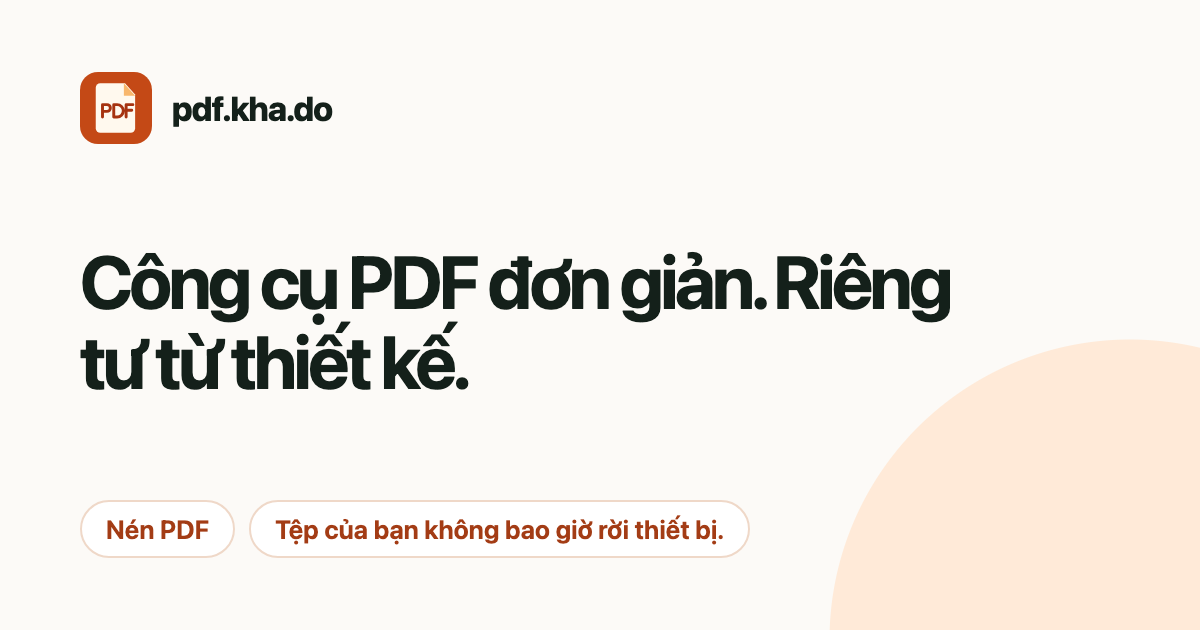
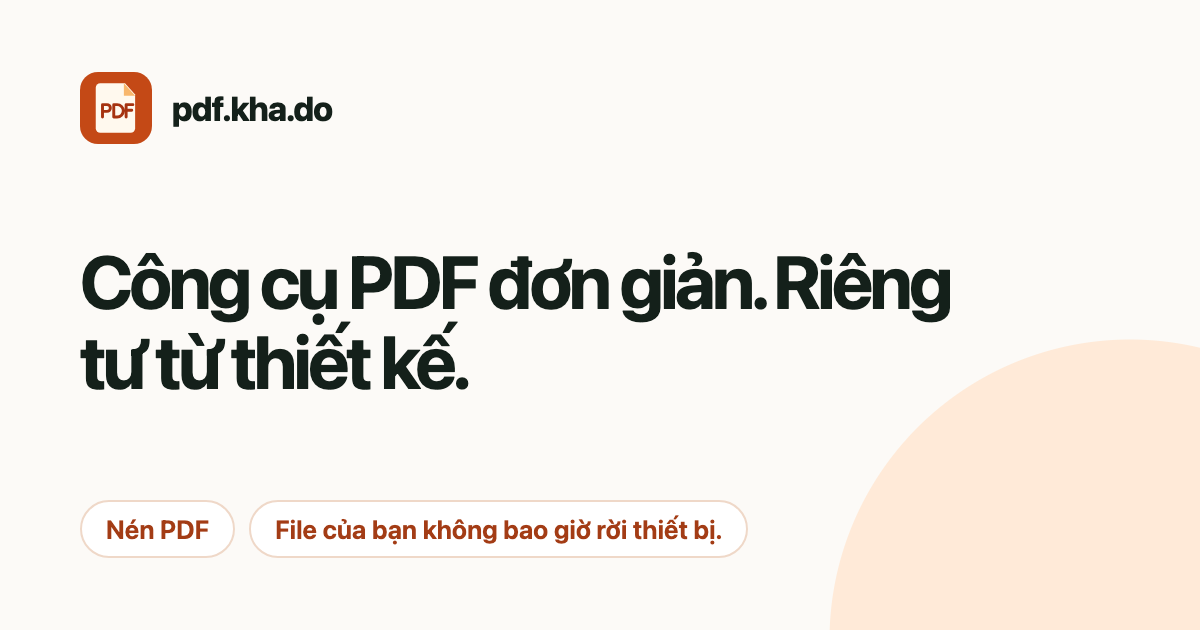
Vietnamese: use "file" instead of "tệp"

Changed region(s): [[0.2158, 0.8143, 0.6475, 0.8746]]

diff --git a/src/i18n/vi.ts b/src/i18n/vi.ts
@@ -5,7 +5,7 @@ export default {
   lightTheme: "Giao diện sáng",
   darkTheme: "Giao diện tối",
   support:
-    "Không tải tệp lên. Không tài khoản. Không thu phí. Không quảng cáo.",
+    "Không tải file lên. Không tài khoản. Không thu phí. Không quảng cáo.",
   philosophy: "PDF của bạn. Thiết bị của bạn. Quyền của bạn.",
   tagline: "Công cụ PDF tôn trọng bạn.",
   siteLoads:
@@ -19,11 +19,11 @@ export default {
   sub: "Công cụ PDF miễn phí, mã nguồn mở, chạy hoàn toàn trong trình duyệt.",
   drop: "Thả PDF vào đây hoặc bấm để chọn",
   hint: "Mỗi lần một PDF. Không cần tải lên.",
-  browse: "Chọn tệp",
-  privacy: "Tệp của bạn không bao giờ rời thiết bị.",
+  browse: "Chọn file",
+  privacy: "File của bạn không bao giờ rời thiết bị.",
   compress: "Nén PDF",
   quality: "Chất lượng cao",
-  smallest: "Tệp nhỏ nhất",
+  smallest: "File nhỏ nhất",
   target: "Dung lượng mong muốn (tùy chọn)",
   off: "Tắt",
   image: "Chất lượng ảnh",
@@ -31,7 +31,7 @@ export default {
   high: "Cao",
   medium: "Trung bình",
   low: "Thấp",
-  remove: "Xóa tệp",
+  remove: "Xóa file",
   reading: "Đang đọc PDF",
   analyzing: "Đang kiểm tra các trang",
   loading: "Đang tải bộ xử lý PDF",
@@ -44,36 +44,36 @@ export default {
   saved: "đã giảm",
   download: "Tải PDF",
   another: "Nén PDF khác",
-  noReduction: "Không thể giảm dung lượng đáng kể. Hãy giữ tệp gốc.",
+  noReduction: "Không thể giảm dung lượng đáng kể. Hãy giữ file gốc.",
   targetMet: "Đã đạt dung lượng mong muốn",
   targetMiss:
     "Chưa đạt dung lượng mong muốn; có thể không giảm được đến mức đó.",
-  invalid: "Hãy chọn một tệp PDF hợp lệ.",
+  invalid: "Hãy chọn một file PDF hợp lệ.",
   large:
     "PDF lớn có thể vượt bộ nhớ của trình duyệt. Bạn vẫn có thể thử và hủy bất cứ lúc nào.",
-  corrupt: "Không đọc được PDF hoặc tệp đã hỏng.",
+  corrupt: "Không đọc được PDF hoặc file đã hỏng.",
   password: "PDF này được bảo vệ bằng mật khẩu. Nhập mật khẩu để tiếp tục.",
-  failed: "Nén thất bại. Tệp gốc của bạn vẫn an toàn.",
+  failed: "Nén thất bại. File gốc của bạn vẫn an toàn.",
   how: "Cách hoạt động",
   howText:
     "Trình duyệt đọc PDF và nén lại những ảnh phù hợp. Văn bản và đồ họa vector được giữ lại khi bộ xử lý PDF hỗ trợ.",
   why: "Vì sao dùng công cụ này?",
   whyText:
-    "Không tải tệp lên, không tài khoản, quảng cáo hay theo dõi. Mọi xử lý diễn ra trên thiết bị của bạn.",
+    "Không tải file lên, không tài khoản, quảng cáo hay theo dõi. Mọi xử lý diễn ra trên thiết bị của bạn.",
   faq: "Câu hỏi thường gặp",
   q1: "Nén có làm giảm chất lượng không?",
   a1: "Chi tiết ảnh có thể thay đổi. Chất lượng cao ưu tiên độ rõ; văn bản và đồ họa vector thường vẫn sắc nét.",
-  q2: "Tệp có được tải lên không?",
-  a2: "Không. Tệp ở lại trong tab trình duyệt và không được gửi tới máy chủ.",
+  q2: "File có được tải lên không?",
+  a2: "Không. File ở lại trong tab trình duyệt và không được gửi tới máy chủ.",
   q3: "Có thể chọn dung lượng mong muốn không?",
   a3: "Có. Chúng tôi thử nhiều thiết lập và chọn kết quả tốt nhất dưới mức bạn đặt khi có thể.",
   q4: "Vì sao PDF không nhỏ hơn?",
-  a4: "PDF đã tối ưu có thể gần như không còn phần dư. Nếu xử lý làm tệp lớn hơn, chúng tôi giữ tệp gốc.",
+  a4: "PDF đã tối ưu có thể gần như không còn phần dư. Nếu xử lý làm file lớn hơn, chúng tôi giữ file gốc.",
   privacyTitle: "Quyền riêng tư",
   privacyBody:
-    "Toàn bộ xử lý chạy trong Web Worker trên thiết bị. Trang này không dùng phân tích truy cập, tài khoản, cookie hay lưu PDF. Trình duyệt tải tài nguyên ứng dụng, nhưng dữ liệu PDF, tên tệp và siêu dữ liệu không được gửi cho chúng tôi.",
+    "Toàn bộ xử lý chạy trong Web Worker trên thiết bị. Trang này không dùng phân tích truy cập, tài khoản, cookie hay lưu PDF. Trình duyệt tải tài nguyên ứng dụng, nhưng dữ liệu PDF, tên file và siêu dữ liệu không được gửi cho chúng tôi.",
   unsupported:
-    "Tài liệu có tính năng không thể giữ an toàn khi nén. Hãy giữ tệp gốc.",
+    "Tài liệu có tính năng không thể giữ an toàn khi nén. Hãy giữ file gốc.",
   limitations:
     "Chữ ký số và biểu mẫu tương tác có thể không còn nguyên sau khi viết lại PDF. Hãy kiểm tra kết quả trước khi chia sẻ.",
   license: "Giấy phép",
@@ -82,7 +82,7 @@ export default {
   open: "Mã nguồn mở trên GitHub",
   targetInvalid: "Nhập dung lượng mong muốn lớn hơn 0.",
   lossyNotice: "Ảnh đã được nén lại. Hãy kiểm tra kết quả trước khi chia sẻ.",
-  replace: "Đổi tệp",
+  replace: "Đổi file",
   oneFile: "Mỗi lần chỉ chọn một PDF.",
   stepFile: "Chọn PDF",
   stepLevel: "Chọn mức nén",

diff --git a/tests/browser/app.spec.ts b/tests/browser/app.spec.ts
@@ -27,7 +27,7 @@ test("language switching and RTL", async ({ page }) => {
   ).toBeVisible();
   await page.locator(".language select").selectOption("vi");
   await expect(
-    page.getByText("Tệp của bạn không bao giờ rời thiết bị.").filter({ visible: true }).first(),
+    page.getByText("File của bạn không bao giờ rời thiết bị.").filter({ visible: true }).first(),
   ).toBeVisible();
 });
 test("theme and mobile", async ({ page }) => {

diff --git a/src/i18n/metadata.ts b/src/i18n/metadata.ts
@@ -41,6 +41,6 @@ export const metadata = {
   ],
   vi: [
     "Nén PDF riêng tư | pdf.kha.do",
-    "Nén PDF miễn phí ngay trong trình duyệt. Không tải tệp lên máy chủ.",
+    "Nén PDF miễn phí ngay trong trình duyệt. Không tải file lên máy chủ.",
   ],
 };
